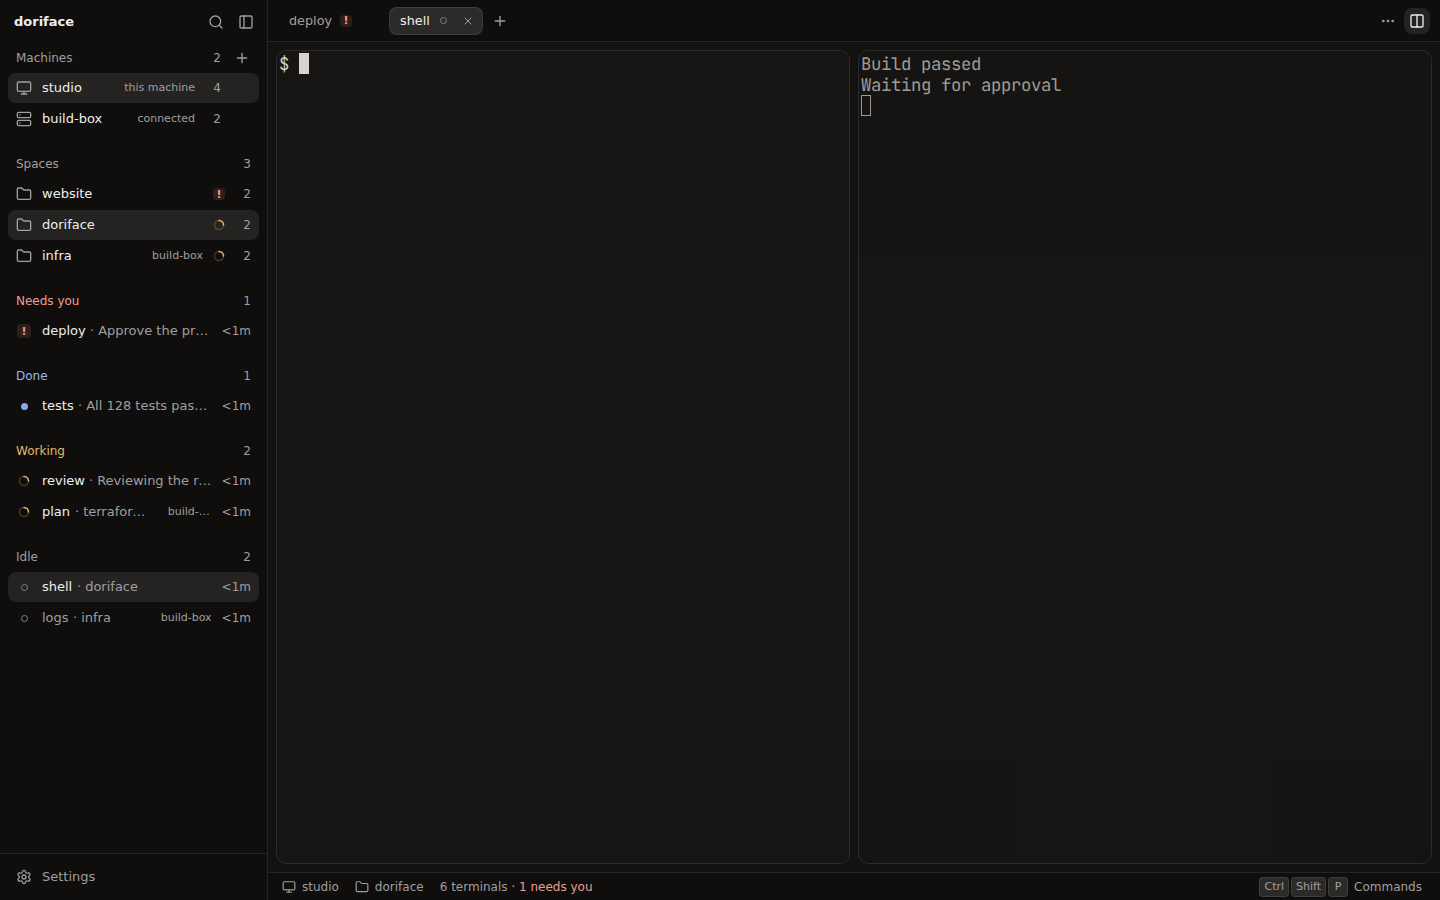
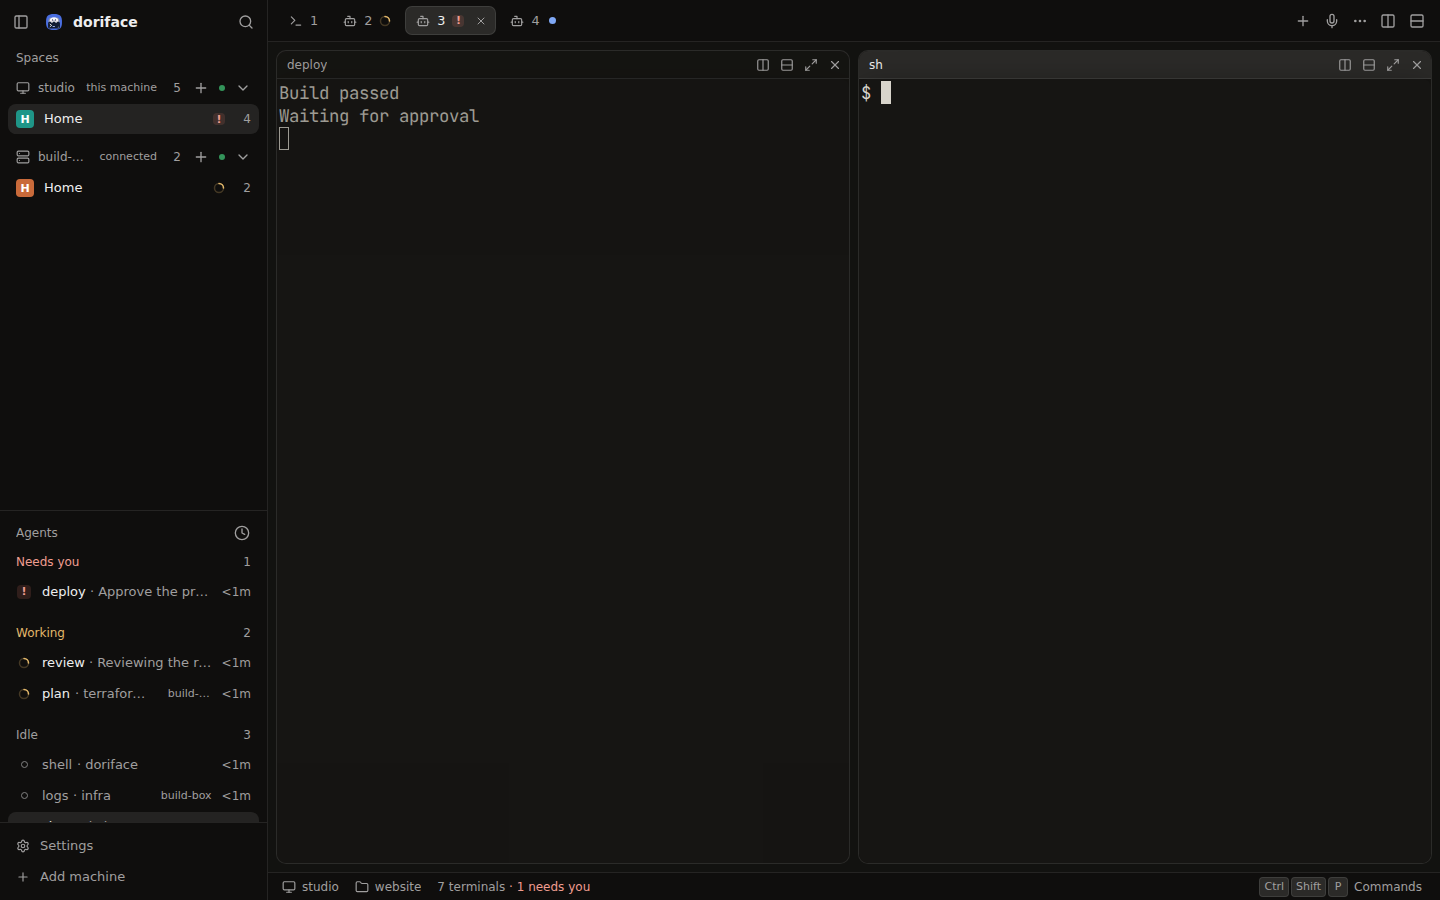
chore(web): bun run capture:readme, and the README screenshots recaptured with #466 (#571)
* chore(web): bun run capture:readme recaptures the README's two screenshots

One command from the repo root re-renders docs/design/app/workspace-1440-day.png
and workspace-1440-night.png, the two screenshots the README shows: the capture
spec's "workspace" state at 1440 in both themes, against a real hc.

The state had gone stale: Split right now starts a new shell beside the tab in
view, as herdr-app's new_split does, so the split shows deploy and a new sh
terminal, and the shell tab is no longer in it. The capture asserts that.

* docs(design): recapture the README workspace screenshots on dev with #466 (bun run capture:readme)

diff --git a/apps/web/e2e/capture-shots.ts b/apps/web/e2e/capture-shots.ts
@@ -146,7 +146,8 @@ export const SHOTS: readonly Shot[] = [
       await expect(page.locator("[data-terminal]:visible")).toHaveCount(2);
       const shown = page.locator("section[data-split='true']:visible");
       await expect(shown.and(page.getByLabel("deploy terminal"))).toHaveCount(1);
-      await expect(shown.and(page.getByLabel("shell terminal"))).toHaveCount(1);
+      // Split right starts a new shell beside the tab in view, as herdr-app's new_split does.
+      await expect(shown.and(page.getByLabel("sh terminal"))).toHaveCount(1);
       await expect(
         page.locator("[data-terminal]:visible").filter({ has: page.locator(".term-row", { hasText: /\S/ }) }),
       ).toHaveCount(2);
